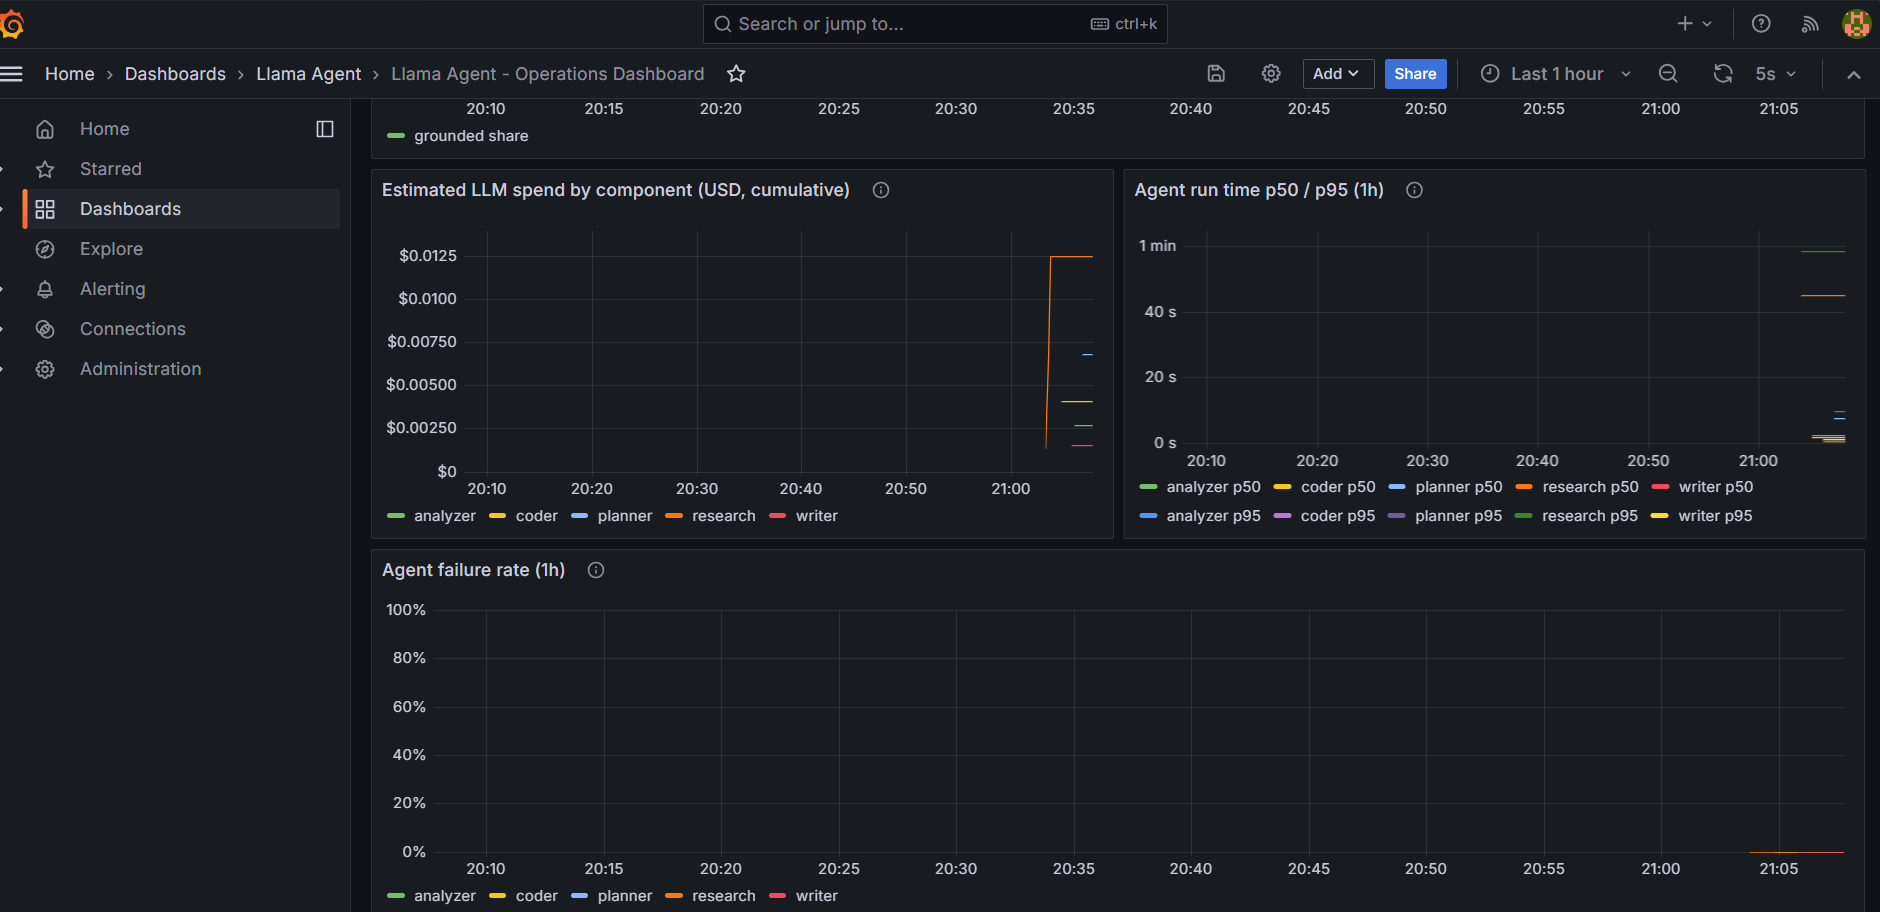
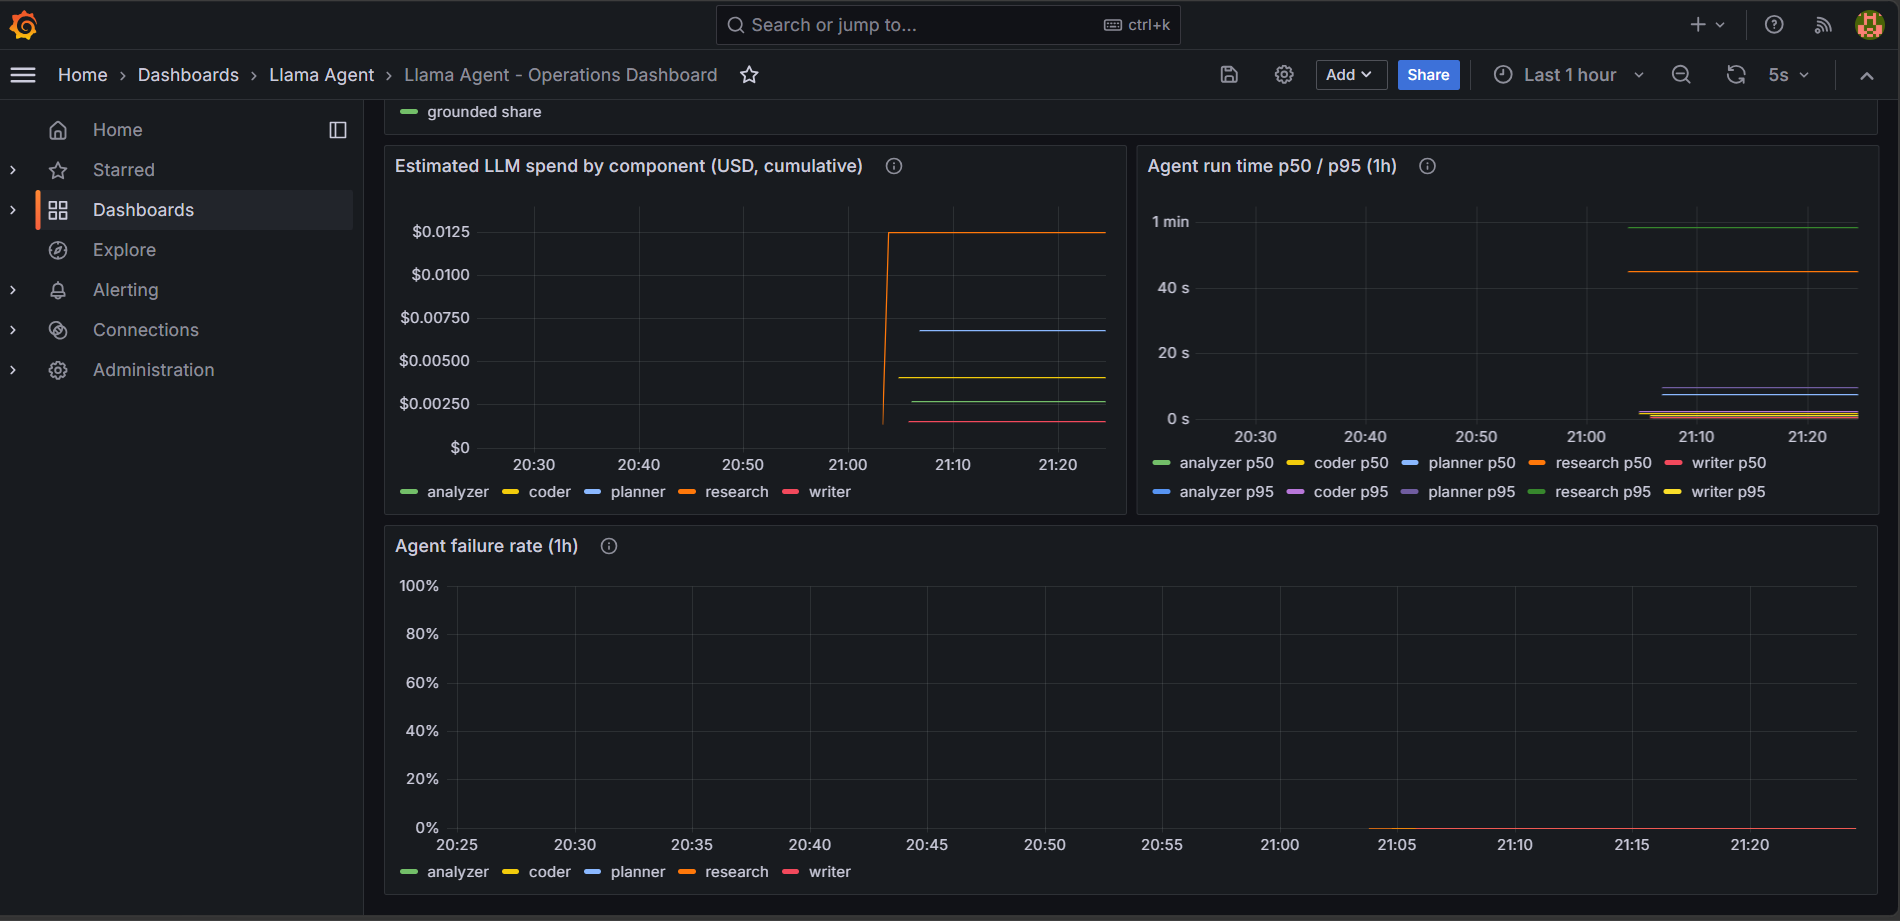
docs: clearer Grafana screenshots

diff --git a/README.md b/README.md
@@ -73,8 +73,8 @@ average 115, +50% from January to April.
 
 **Grafana: LLMOps panels.** Input tokens per minute by model, the LLM guard's actions
 (`downgraded` = a call moved from the strong to the fast model because the free-tier
-window was nearly full) and estimated spend per model at Groq list prices. "No data" for
-context compaction means no prompt needed trimming in this window.
+window was nearly full) and estimated spend per model at Groq list prices. Most of the
+spend is the strong model; the fast model handles routing, checks and fallbacks.
 
 ![Grafana LLMOps panels: tokens per minute, guard actions, spend](docs/screenshots/grafana-llmops.png)
 
